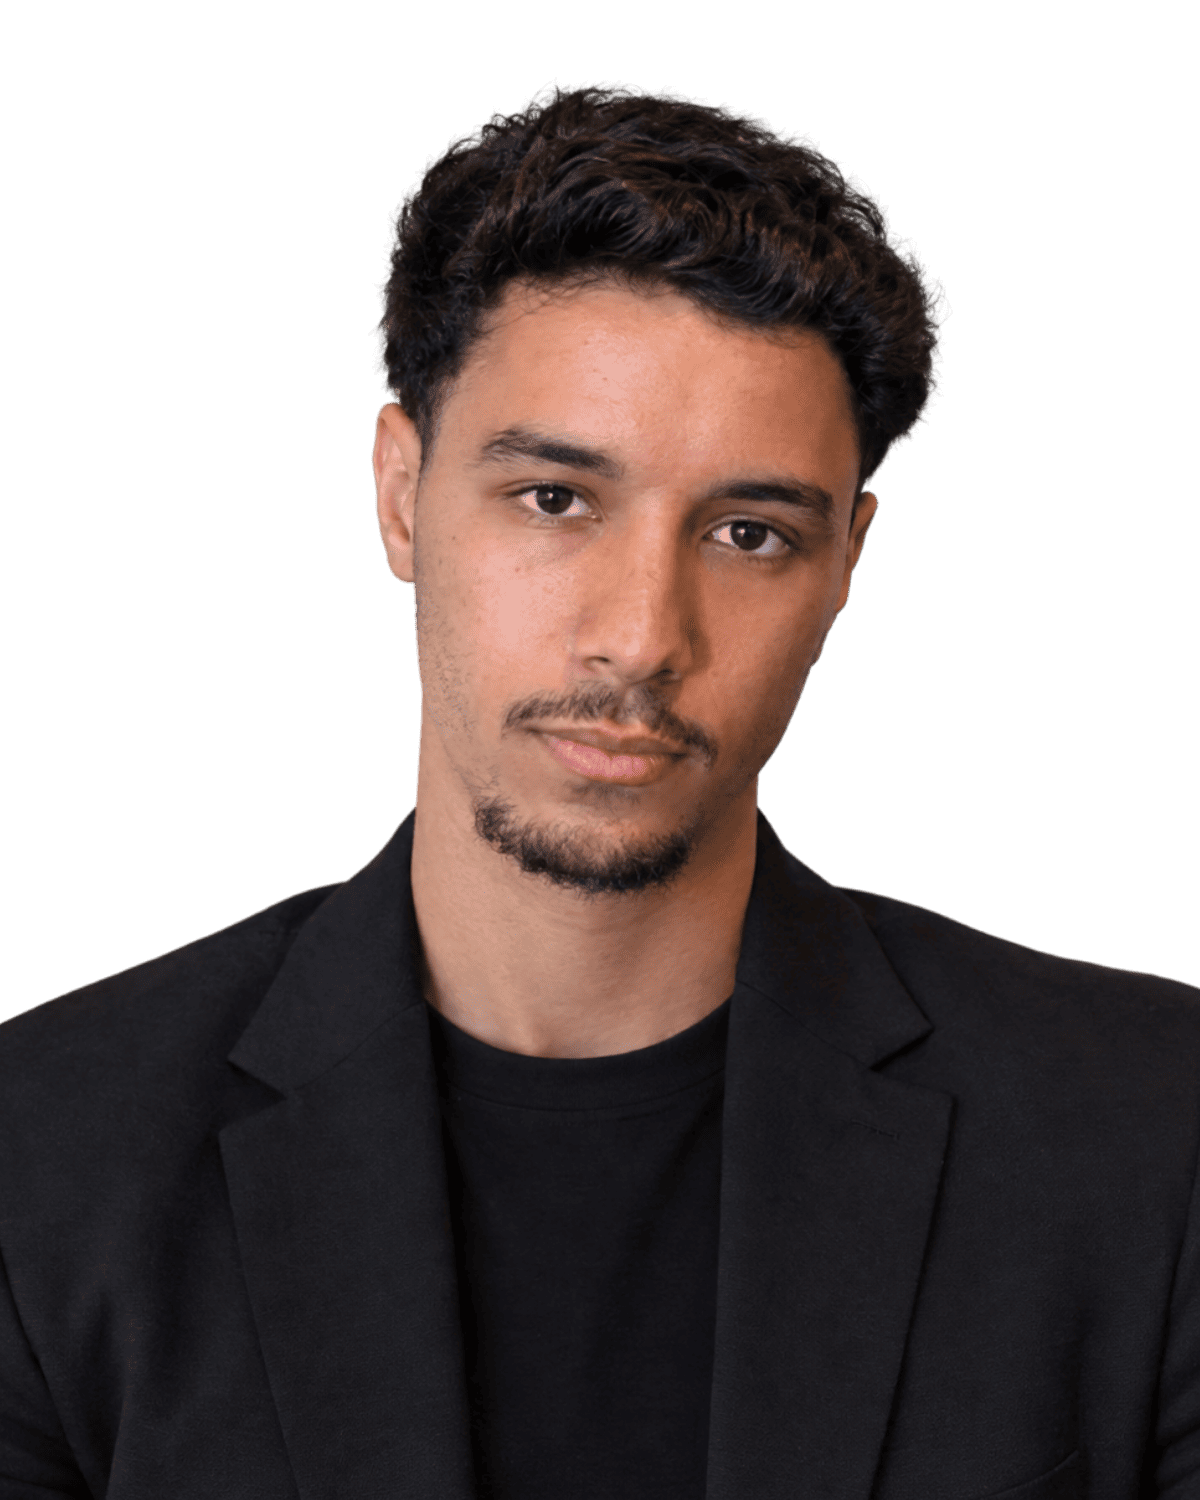
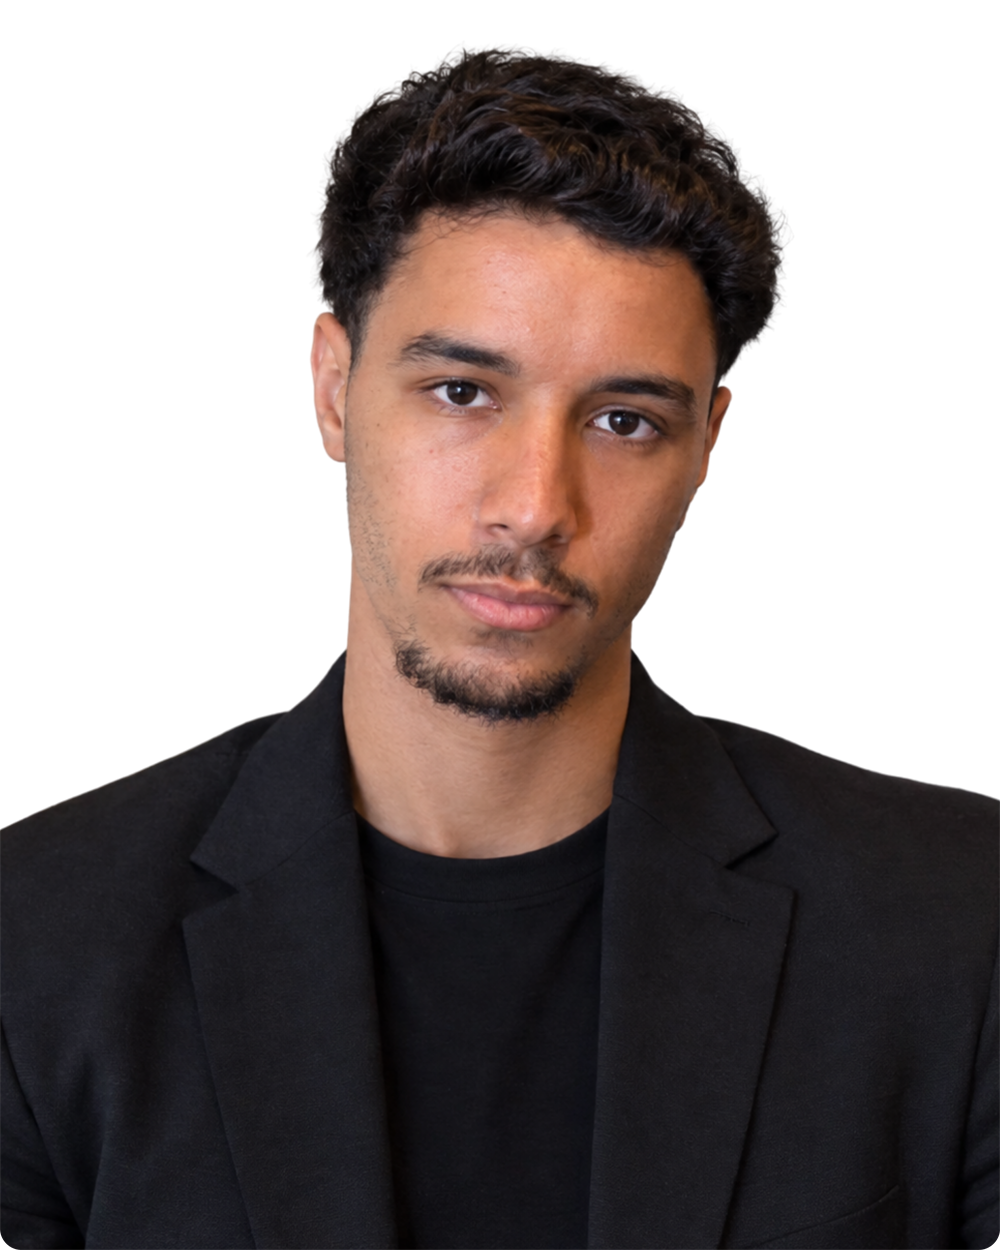
Add files via upload

diff --git a/style.css b/style.css
@@ -8036,14 +8036,19 @@ html:has(.sb.is-live) .tt--hx {
      blurring an element carrying three intersected masks and a
      drop-shadow means rasterising that whole stack again every frame for
      760ms. The rise and the fade carry the entrance on their own. */
+  /* STEP 35: the scale is gone from here too, and for the reason above: a
+     translate moves a texture that is already rasterised, a scale changes
+     the size it has to be rasterised at, and this element is a stack of
+     intersected masks. The reported crash lands part way through the name,
+     which is the same moment this animation is running. */
   @keyframes mi-portrait {
     from {
       opacity: 0;
-      transform: translate3d(0, 60px, 0) scale(1.05);
+      transform: translate3d(0, 60px, 0);
     }
     to {
       opacity: 1;
-      transform: translate3d(0, 0, 0) scale(1);
+      transform: translate3d(0, 0, 0);
     }
   }
 
@@ -9372,5 +9377,140 @@ a.cv__val:hover { color: var(--accent-text, var(--accent)); }
   html.is-settled .mi__letter > i {
     animation: none;
     transform: none;
+  }
+}
+
+/* ==========================================================================
+   STEP 35 - the hero portrait, measured rather than reasoned about
+
+   STEP 34 was still not enough on a loaded phone, so the page was bisected
+   on the real device instead of in my head. Seven builds, each the real
+   site with one thing removed, with the browser's 27 tabs left open so the
+   memory pressure was the hard case rather than the easy one:
+
+     no JavaScript ........ pass
+     no CSS ............... pass
+     NO PORTRAIT .......... pass
+     MOTION TURNED DOWN ... pass
+     no particle canvas ... intermittent
+     HERO ONLY ............ intermittent
+     the real page ........ intermittent
+
+   Hero-only failing kills the "the page is too long" theory outright. No
+   portrait passing and motion-down passing, while hero-only fails, leaves
+   exactly one thing: **the portrait, while it is being animated.** Not the
+   portrait, which is fine sitting still. Not animation, which is fine on
+   everything else. The two together.
+
+   Why those two and nothing else: this element carries three mask layers
+   composited with `intersect`, which cannot be done in one pass, plus a
+   `drop-shadow` that reads the MASKED alpha and therefore needs that result
+   resolved first. Sitting still that is paid once. Under an animation that
+   changes its rasterised size it is paid again and again.
+
+   Three things go, all of them below 900px only. Desktop keeps the full
+   treatment, which is where it was designed and where there is headroom.
+
+   The `scale` went separately, in the keyframe and in the parallax, because
+   that is the one that forced re-rasterisation. A translate moves a texture
+   that already exists. A scale changes the size it has to exist at.
+   ========================================================================== */
+
+@media (max-width: 899px) {
+
+  .hx__portrait {
+    /* 1. No drop-shadow. It is the most expensive single declaration on
+          this element, because `drop-shadow` reads the masked alpha and so
+          cannot start until the three mask layers have been intersected,
+          making it a second full-size pass over the first one's result.
+          On a phone the portrait sits on a flat page background at 82% of
+          a 390px screen; the shadow was depth nobody was looking for.
+          This also drops the dark theme's `brightness(1.1) contrast(0.95)`,
+          which rode in the same token. The portrait is a shade flatter on
+          a dark phone. That is the trade and it is worth it.
+          The matching inline write in script.js's reduced-motion branch was
+          removed in the same step, or it would have put the shadow straight
+          back: an inline style beats this rule. */
+    filter: none;
+
+    /* 2. Two mask layers instead of three. The horizontal one goes.
+          It fades the left and right edges, and it is the one the radial
+          already substantially does: the radial is an ellipse centred on
+          the face, so it is pulling the sides in as well. The vertical
+          layer stays because it is the one dissolving the shoulders into
+          the section below, and the radial stays because it is the one
+          keeping the falloff centred on the head rather than on the middle
+          of a box whose bottom third is a hard crop.
+          Losing a layer also makes the `intersect` cheaper, since there is
+          one less surface to resolve against.
+          The dark theme's background glow is untouched and still correct:
+          it is a background on this element, so it is cut by whichever mask
+          layers are in force and cannot show an edge with two any more than
+          with three. */
+    -webkit-mask-image: var(--hx-mask-y), var(--hx-mask-r);
+    mask-image: var(--hx-mask-y), var(--hx-mask-r);
+
+    /* STEP 36: and the radial takes over the job the horizontal one was
+       doing, by being pulled in horizontally.
+
+       Dropping the layer above left the sides visibly hard cut, which was
+       the predictable cost and it was reported straight away. The fix is
+       not to put the layer back. It is that the radial was never sized to
+       be the only thing fading the sides: at `ellipse 80%` its edge sits
+       well outside the picture, so at shoulder level the left and right
+       columns were still landing at about 42% opacity, and a 42% edge
+       running straight down the image reads as a cut.
+
+       Pulling the horizontal radius in to 58% moves that same falloff
+       inside the frame. Measured against the gradient's own stops, the
+       outer column at shoulder level goes from 0.42 to about 0.09, while
+       the head and the centre of the torso stay at a full 1.0 because they
+       sit inside the 52% solid core. The vertical radius is untouched at
+       86%, so the bottom is still the vertical layer's job and the crop
+       there is unchanged.
+
+       The trade, stated so it is not a surprise: the outer edges of the
+       torso fade a little earlier than the three-layer original did, about
+       0.77 where it used to be 1.0 at a fifth of the way in. On a portrait
+       whose whole treatment is dissolving into the page that reads as more
+       of the intended effect rather than less, but it IS a difference, and
+       `_crashtest/mask.html` exists to compare it against the original
+       before settling on the number.
+
+       STEP 36b: the number is 50%, not 58%. Picked by looking at that page
+       on the device rather than by me choosing from the arithmetic, which
+       is the whole reason the page exists.
+
+       STEP 36c: the stops are 62% and 81%, also picked by looking, from
+       `_crashtest/fade.html`. At the original 52% the falloff began inside
+       the jacket and was eating the suit. Pushing the solid core out to
+       62% pulls the fade off the shoulders and squeezes it into a narrower
+       band nearer the edge.
+
+       The stops cannot move the edges or the bottom, which is why this was
+       safe to tune after the radius was settled: at a 50% horizontal
+       radius the outer column already sits OUTSIDE the ellipse, so it is
+       fully transparent whatever the stops say, and the bottom is the
+       vertical layer's job. One axis at a time, each one checked on the
+       device. */
+    --hx-mask-r: radial-gradient(ellipse 50% 86% at 50% 38%,
+        #000 62%, rgba(0, 0, 0, 0.6) 81%, transparent 100%);
+  }
+
+  /* 3. The same again for the reduced-motion case, and it needs saying out
+        loud because it is a rule fighting a rule.
+        `html.rm .hx__portrait` up in the reduced-motion block carries
+        `filter: var(--hx-shadow) !important`. It is there so that the
+        blanket `filter: none !important` which strips blur transitions
+        cannot take the portrait's drop-shadow with it, since a shadow is
+        not motion. Correct reasoning, and on a desktop it still stands.
+        On a phone it would have quietly undone the rule above for every
+        visitor who has turned motion down, which is the group most likely
+        to be on a struggling device. Same specificity (0,1,1), same
+        importance, later in the file, so this wins.
+        Nothing about this weakens the reduced-motion setting: the shadow
+        was never the motion. */
+  html.rm .hx__portrait {
+    filter: none !important;
   }
 }

diff --git a/script.js b/script.js
@@ -326,9 +326,17 @@
 
       if (soft) {
         /* Fade only: no parallax, no blur, no scale. The layers still
-           leave in order, they just do not travel to do it. */
+           leave in order, they just do not travel to do it.
+
+           STEP 35: `filter` is no longer written here. It used to be set to
+           HX_SHADOW to make sure a leftover blur from the other branch was
+           overwritten, and there is no blur in either branch any more. It
+           had become actively wrong: an inline style beats a stylesheet, so
+           this one line would have reinstated the drop-shadow on exactly
+           the phones the STEP 35 rule below takes it off. Leaving the
+           property alone lets the cascade decide, which is what should
+           have been happening all along. */
         hxPortrait.style.transform = '';
-        hxPortrait.style.filter = HX_SHADOW;
         hxPortrait.style.opacity = (1 - fade).toFixed(3);
 
         if (hxWord) { hxWord.style.transform = ''; hxWord.style.opacity = (1 - leadOut * 0.85).toFixed(3); }
@@ -338,10 +346,22 @@
 
       /* -15% of the distance scrolled, so it lags the page by that much */
       var pShift = -(p * run * 0.15);
-      var pScale = 1 + p * 0.06;
 
+      /* STEP 35: the scale is gone, and a translate is not the same kind of
+         thing as a scale here.
+         A translate moves a texture the compositor has already rasterised,
+         which is free. A SCALE changes the size that texture has to be
+         rasterised AT, and this element is the expensive one on the page:
+         it carries mask layers that are composited with `intersect`. Each
+         new scale step means resolving that stack again.
+         This is not a guess. A bisect on the real phone had the hero alone
+         crashing the tab, the hero without the portrait passing, and the
+         hero with the portrait but with motion turned down passing. The
+         portrait is fine and animating it is fine; rasterising it over and
+         over at new sizes is not. The parallax keeps its lag and its fade,
+         which is what the effect actually reads as. */
       hxPortrait.style.transform =
-        'translate3d(0, ' + pShift.toFixed(1) + 'px, 0) scale(' + pScale.toFixed(4) + ')';
+        'translate3d(0, ' + pShift.toFixed(1) + 'px, 0)';
       hxPortrait.style.opacity = (1 - fade).toFixed(3);
 
       /* STEP 33: no blur here any more, and it is the one line in this

diff --git a/index.html b/index.html
@@ -340,7 +340,7 @@
         <img draggable="false" class="hx__portrait" id="hx-portrait"
              src="assets/images/portrait-cutout.png"
              alt="Mohamed Elhayyany, Technical Customer Success Manager &amp; Business Developer"
-             width="1200" height="1500">
+             width="1000" height="1250">
 
         <!-- Nav row, sitting on the wordmark's baseline and split around
              the portrait. These are the elements the FLIP carries into the
